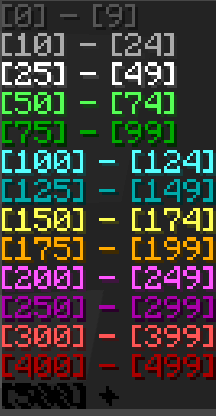
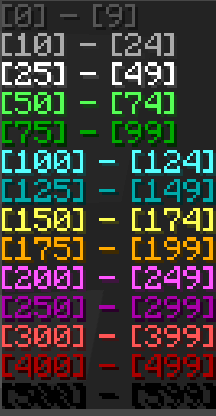
aktualizacja koloru poziomów

Changed region(s): [[0.6111, 0.9062, 1.0, 1.0], [0.4722, 0.9062, 0.5278, 1.0]]

diff --git a/server/levels.md b/server/levels.md
@@ -9,6 +9,11 @@ Poziom globalny pokazany jest na chacie (w miejscu zaznaczonym czerwonym prostok
 Jego kolor jest zależyny od aktualnego poziomu.
 
 ![Poziom kolor](/assets/levels/kolory.png)
+![Poziom kolor](/assets/levels/kolorylvl.png)
+
+Od wersji 1.19+ kolory wyglądają tak:
+
+![Poziom kolor](/assets/levels/kolory-nowe.png)
 
 ## Kolory oraz nazwy odznak (poziomy trybowe)
 